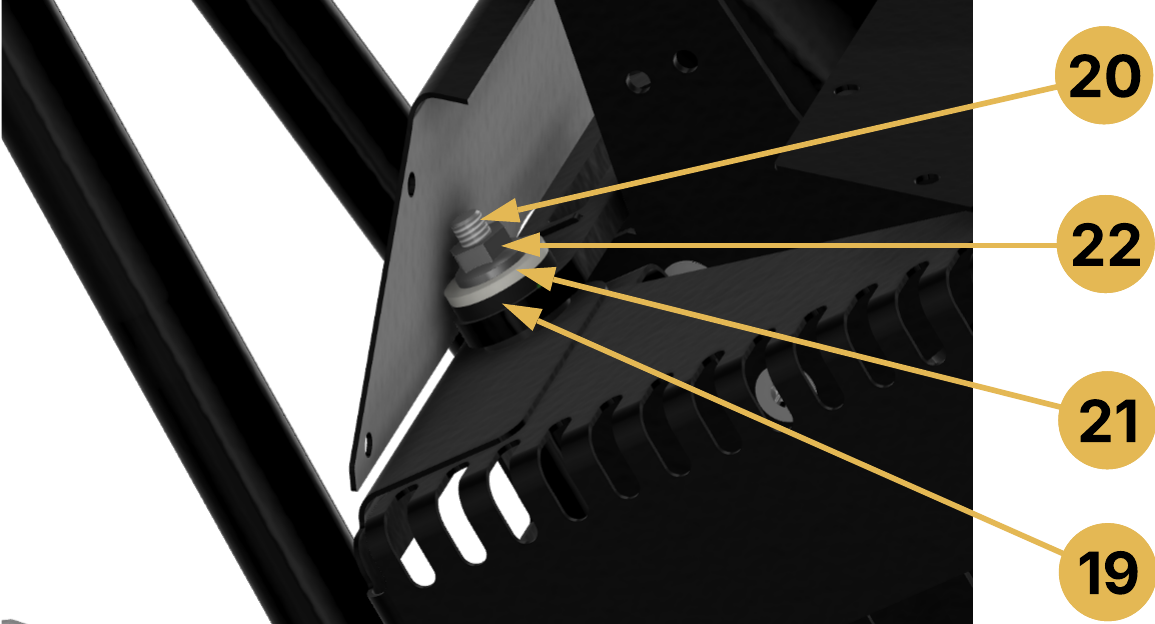
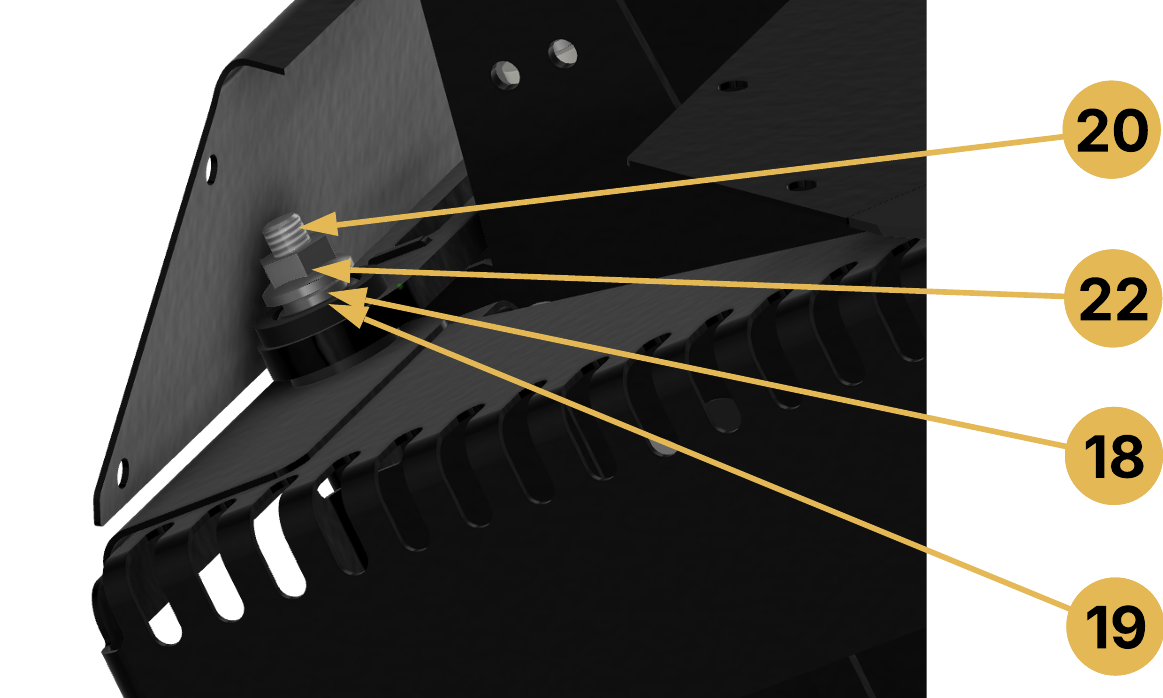
Removed nylon disk

diff --git a/docs/conversion-manual/MID50/02-s50-s51/index.md b/docs/conversion-manual/MID50/02-s50-s51/index.md
@@ -441,10 +441,10 @@ Ziehe zum Schluss an der Tankaufnahme die obere M8 Mutter(10) über der Unterleg
   <img src="images/einbau-rahmen-10.png" width="396" loading="lazy" />
 </p>
 
-Setze nun das linke Akkufach(17) wieder ein und baue es zuerst oben wieder zusammen. Setze dafür die Metallhülse(18) von oben in das Gleitlager(19) ein und führe die Flachkopfschraube(20) von unten ein. Setze von oben die weiße Nylonscheibe(21) auf und schraube die M6 Mutter(22) locker auf. Wiederhole das Gleiche von unten, dort jedoch ohne Nylonscheibe. Achte dabei darauf, dass die Gleithülse in der dafür vorgesehenen Führung sitzt. Ziehe anschließend beide Akkufachgelenke mit ca. 5 Nm fest.
+Setze nun das linke Akkufach(17) wieder ein und baue es zuerst oben wieder zusammen. Setze dafür die Metallhülse(18) von oben in das Gleitlager(19) ein und führe die Flachkopfschraube(20) von unten ein und schraube die M6 Mutter(22) locker auf. Wiederhole das Gleiche von unten. Achte dabei darauf, dass die Gleithülse in der dafür vorgesehenen Führung sitzt. Ziehe anschließend beide Akkufachgelenke mit ca. 5 Nm fest.
 
 <p align="center">
-  <img src="images/einbau-rahmen-11.png" width="421" loading="lazy" />
+  <img src="images/einbau-rahmen-11.png" width="424" loading="lazy" />
 </p>
 
 <p align="center">